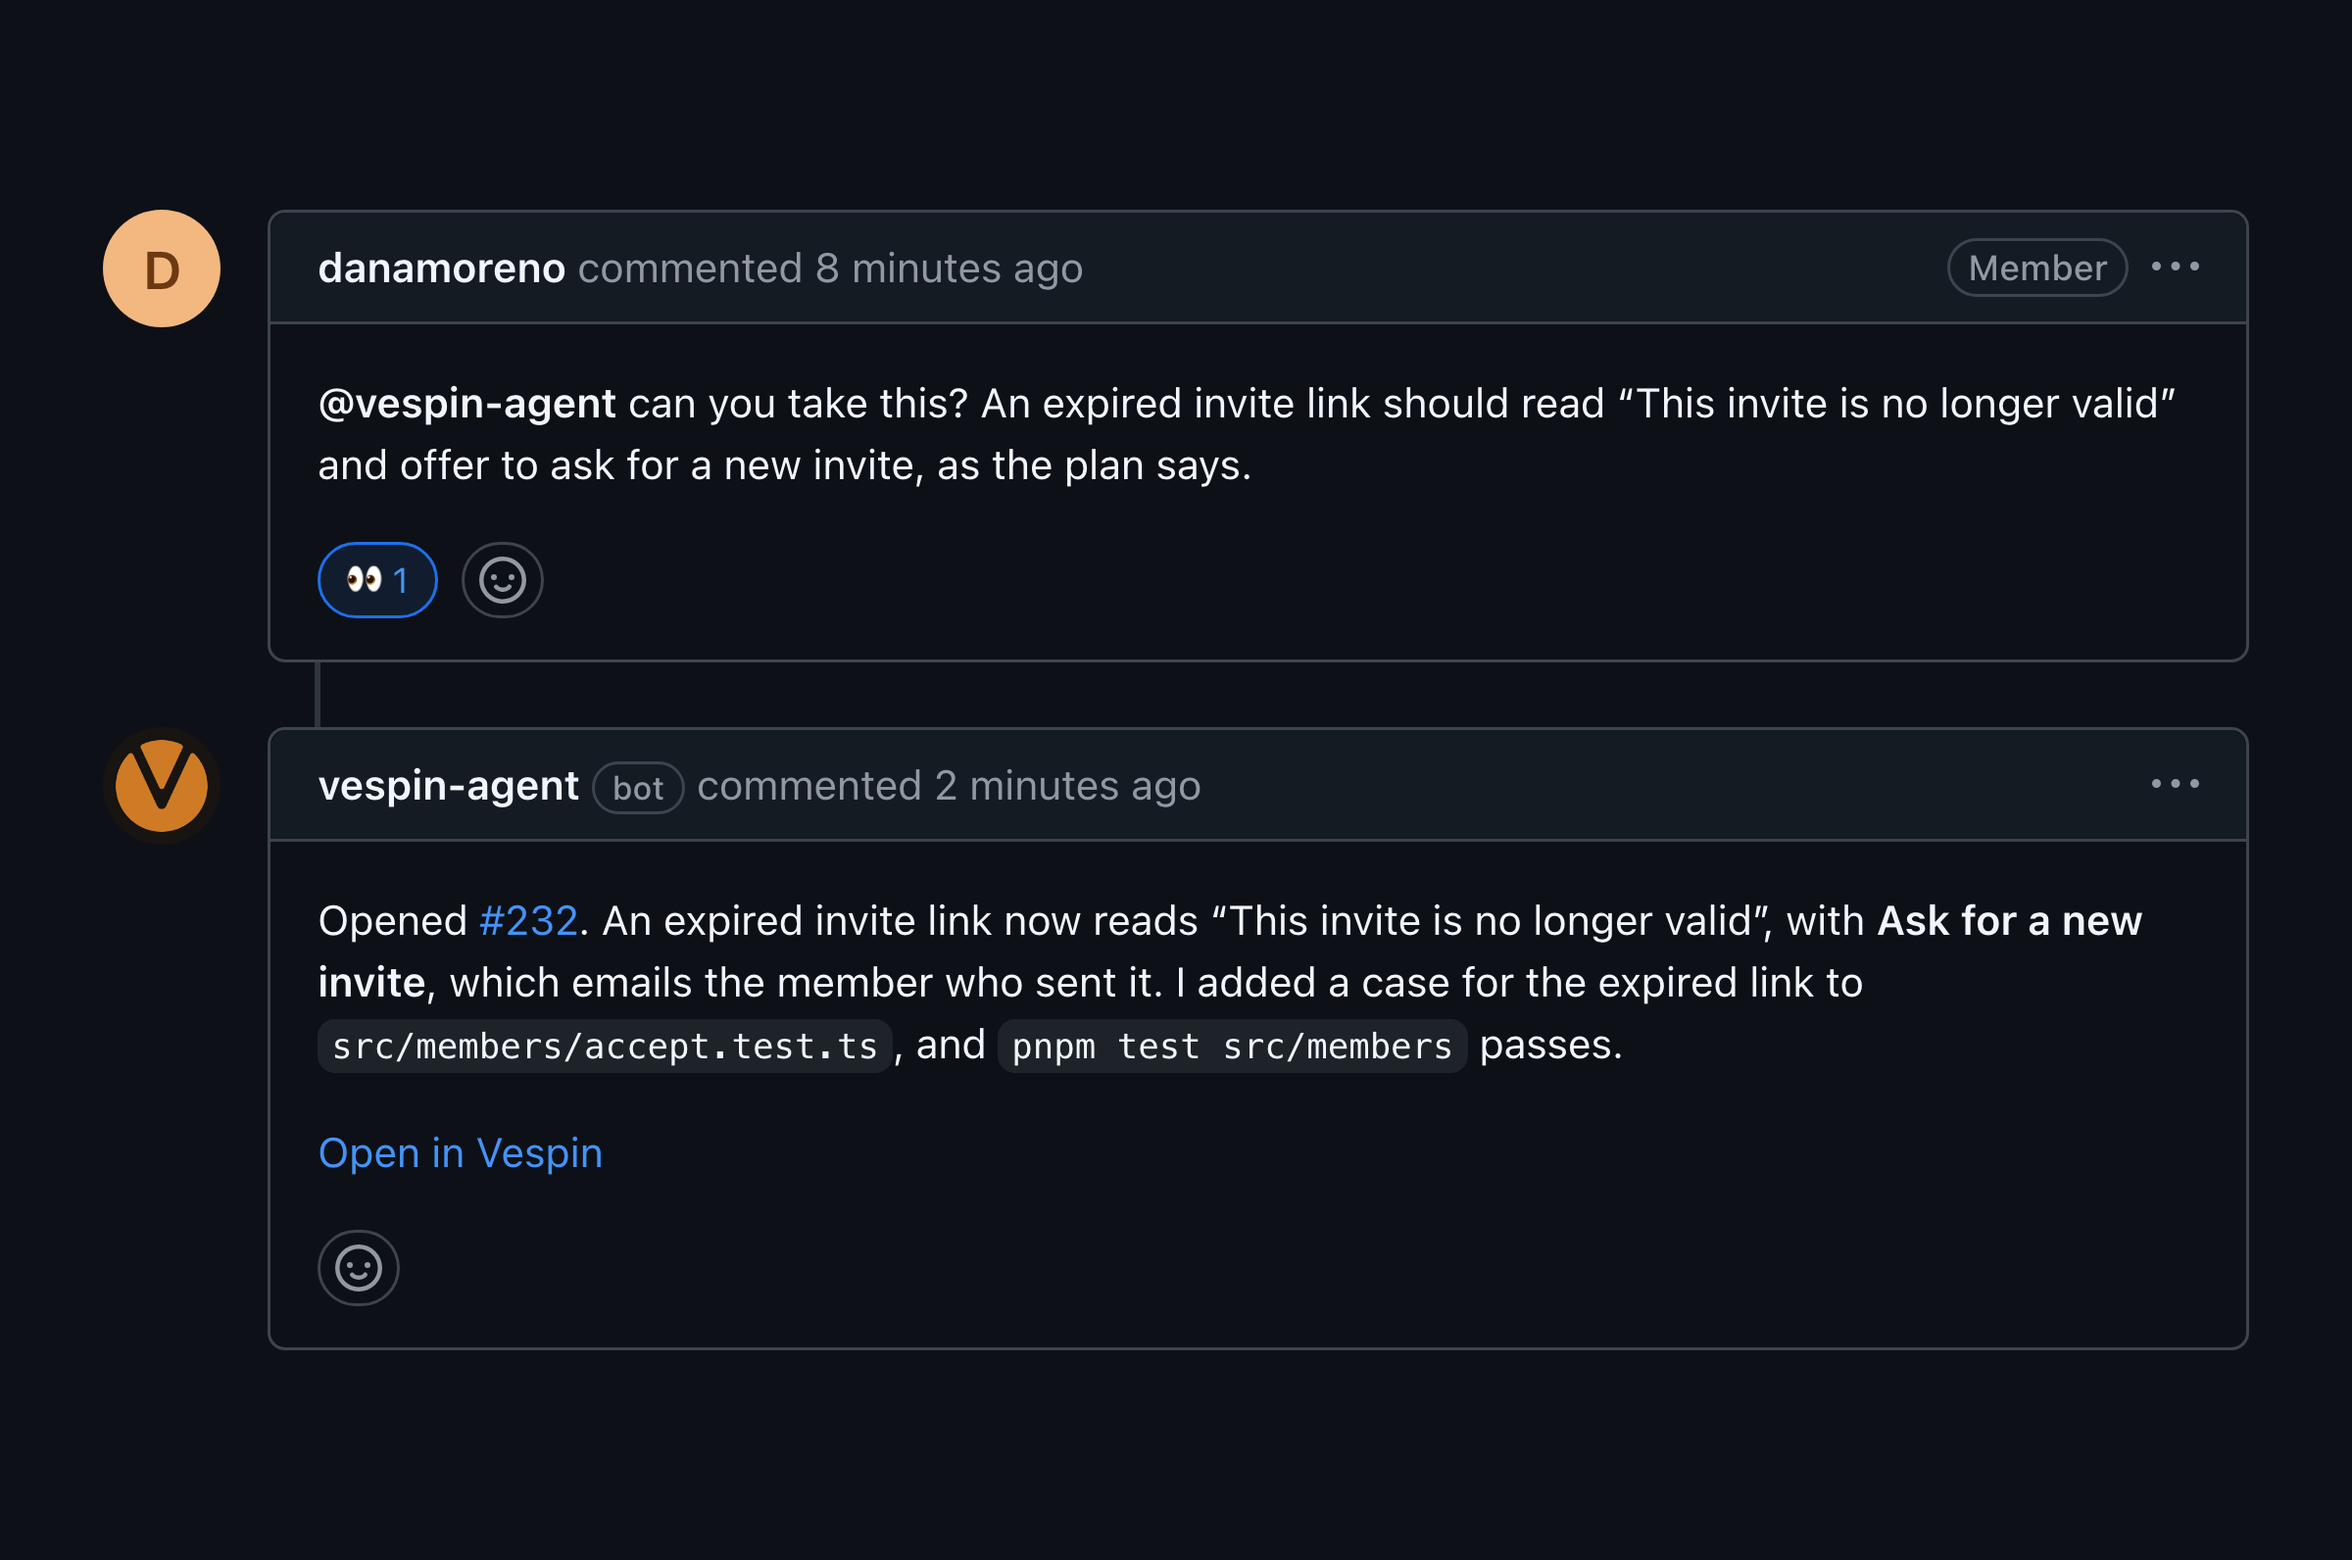
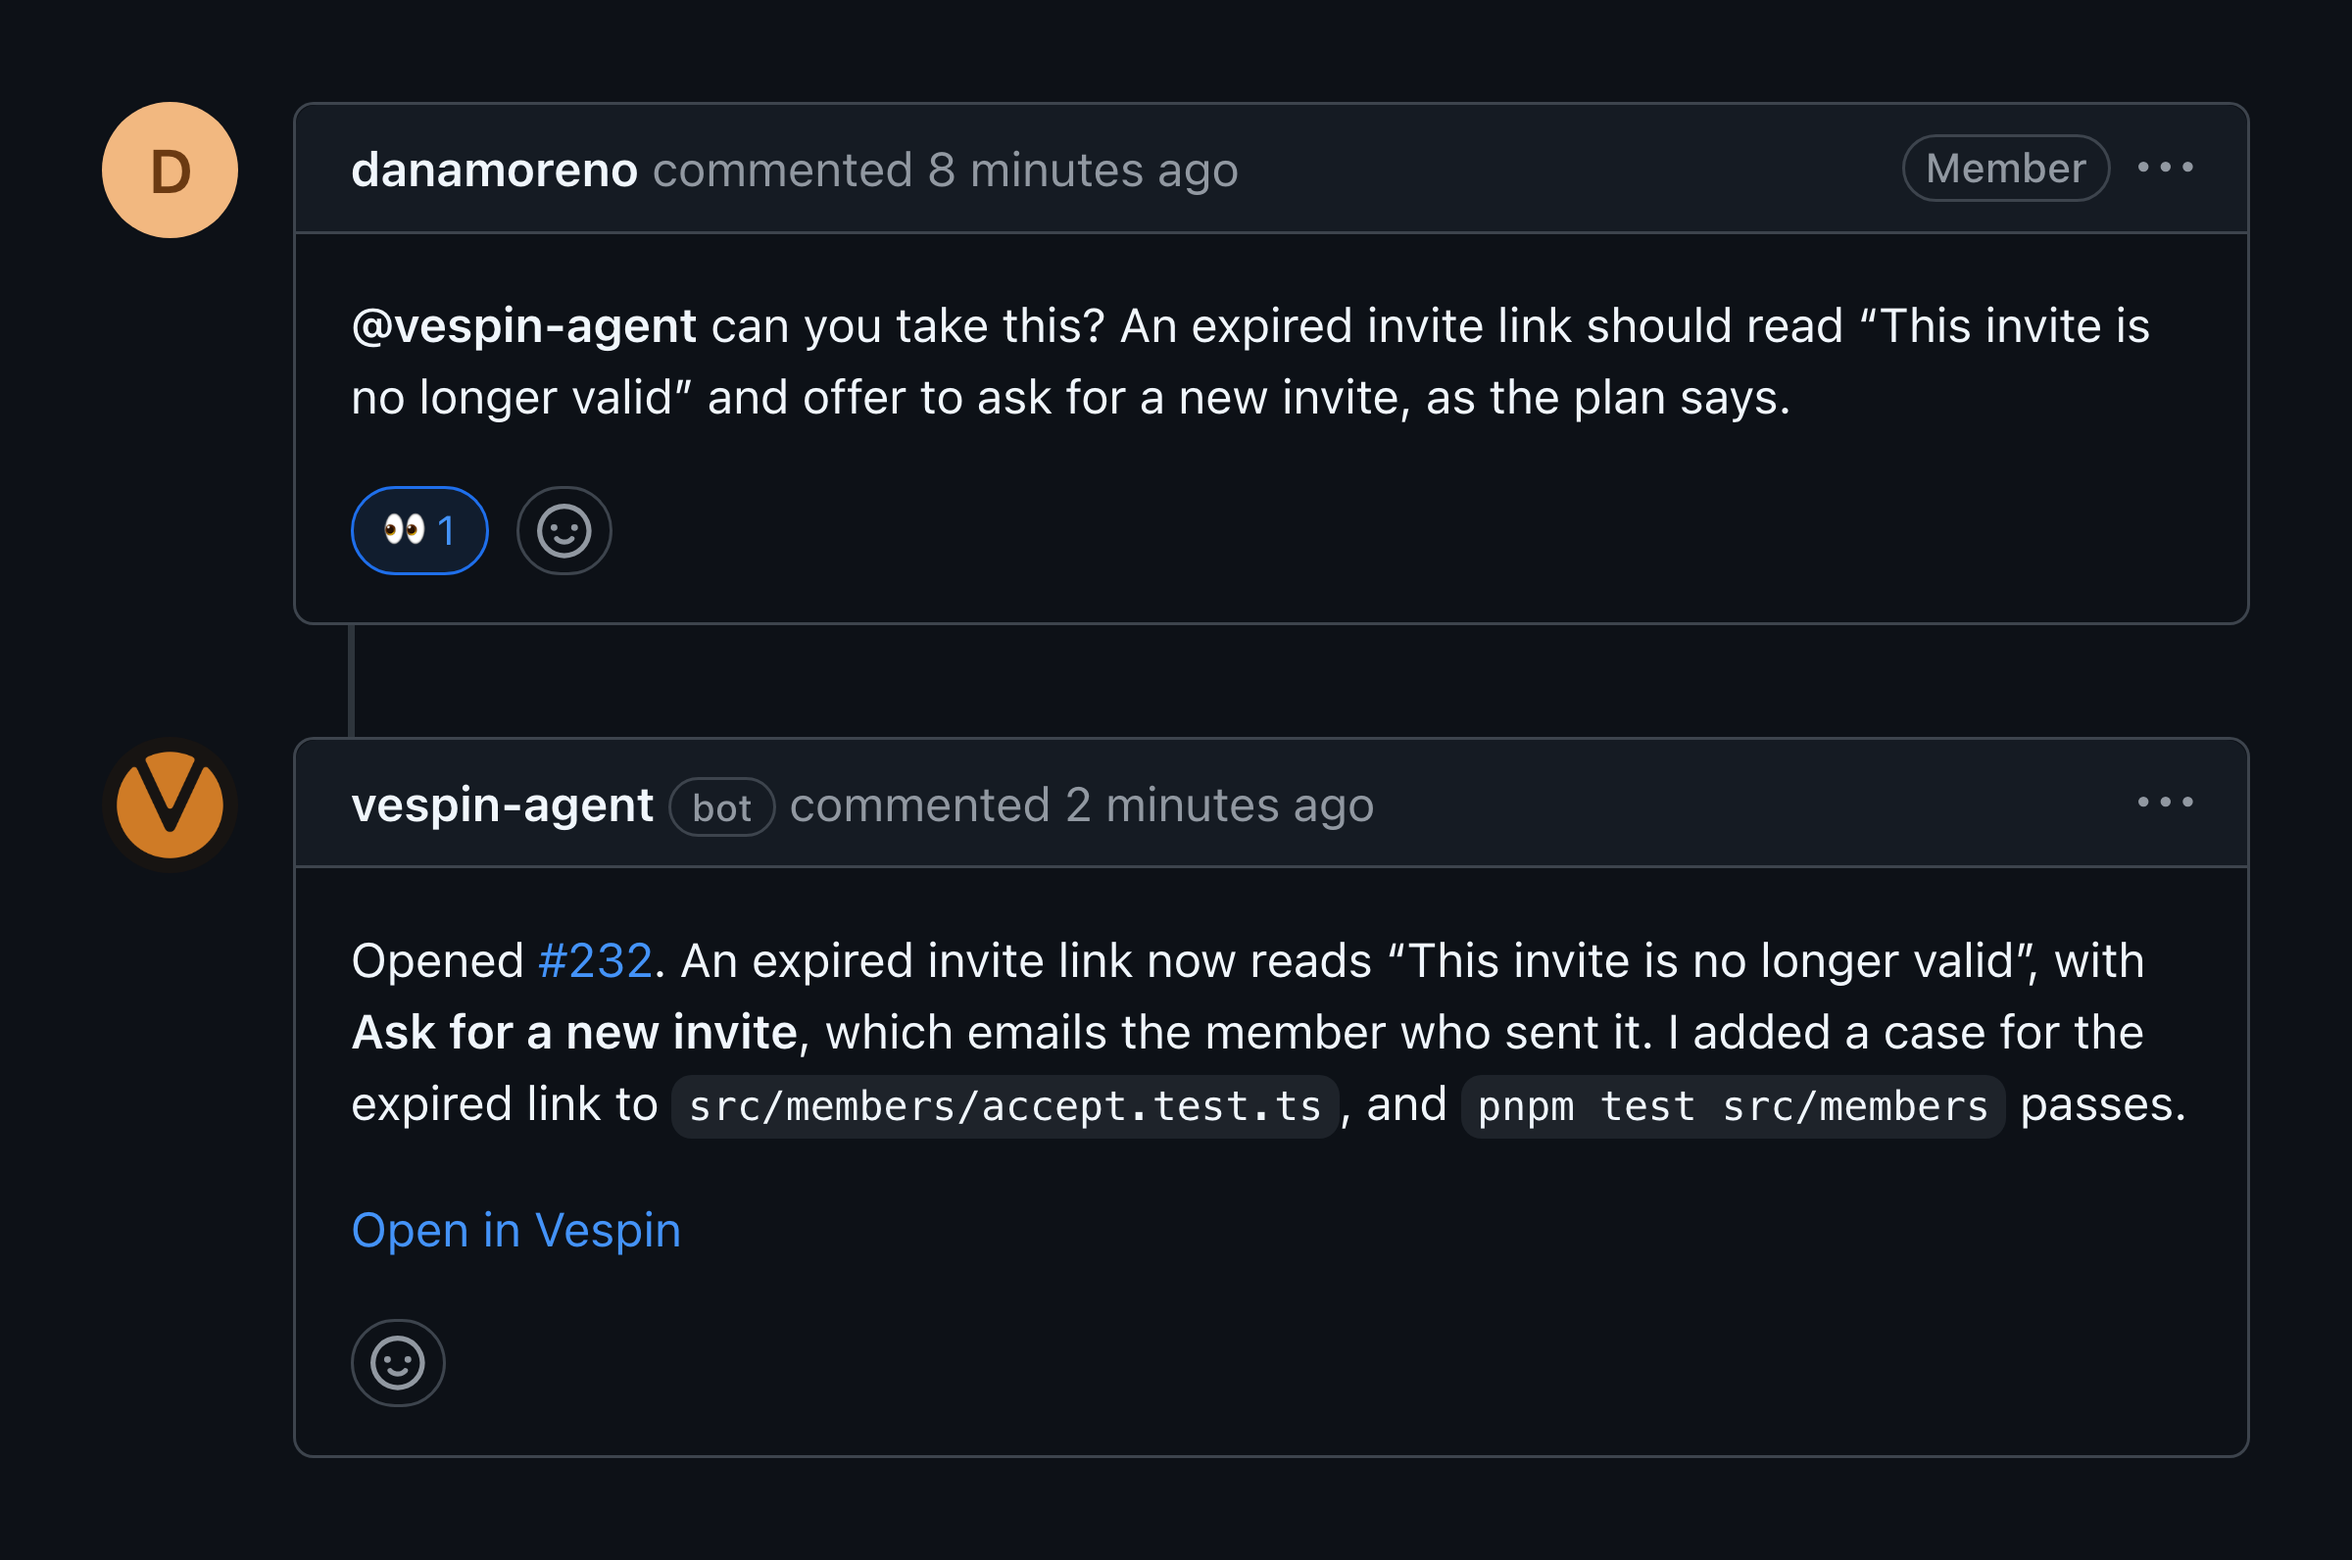
docs(changelog): give 0.34.0's GitHub comments even margins

diff --git a/.agents/skills/changelog-screenshots/staging/releases/v0.34.0-github-mention.py b/.agents/skills/changelog-screenshots/staging/releases/v0.34.0-github-mention.py
@@ -155,7 +155,18 @@ body{{width:1200px;height:796px;display:flex;align-items:center;justify-content:
 </style></head><body><div class="col">
 {comment(dana(40), "danamoreno", "commented 8 minutes ago", '<p><a class="user-mention text-bold Link--primary">@vespin-agent</a> can you take this? An expired invite link should read “This invite is no longer valid” and offer to ask for a new invite, as the plan says.</p>', badge="Member", reactions='<span class="rx">👀 1</span>')}
 {comment(f'<img src="{BOT}">', "vespin-agent", "commented 2 minutes ago", '<p>Opened <a href="#">#232</a>. An expired invite link now reads “This invite is no longer valid”, with <strong>Ask for a new invite</strong>, which emails the member who sent it. I added a case for the expired link to <code>src/members/accept.test.ts</code>, and <code>pnpm test src/members</code> passes.</p><p><a href="#">Open in Vespin</a></p>', bot=True)}
-</div></body></html>'''
+</div>
+<script>
+// Fits the comments to the picture: the largest zoom whose height leaves room, then a gap between them that makes the top and bottom margins match the sides.
+(function () {{
+  var side = 52, room = 796 - 2 * side, col = document.querySelector(".col"), first = col.querySelector(".tl-item");
+  for (var z = 1.9; z >= 1.3; z -= 0.01) {{
+    col.style.zoom = z; col.style.width = (1200 - 2 * side) / z + "px"; first.style.marginBottom = "22px";
+    var h = col.getBoundingClientRect().height;
+    if (h <= room) {{ first.style.marginBottom = 22 + (room - h) / z + "px"; break; }}
+  }}
+}})();
+</script></body></html>'''
 
 css = "\n".join(open(p).read() for p in CSS_FILES)
 open(f"{ROOT}/.context/mock/github-comments.html", "w").write(abstract(css))

diff --git a/.agents/skills/changelog-screenshots/staging/releases/README.md b/.agents/skills/changelog-screenshots/staging/releases/README.md
@@ -85,7 +85,7 @@ adjusting, and capture with the same profile, zoom, and crop.
 | 0.33.0 | `v0.33.0` (`d8c0ff3d`) | `always-allowed-commands.png` | `shot-always-allow` (`APP_SHOT_SETTLE=14`) | 1 | `280,215,1200,800` |
 | 0.33.0 | `v0.33.0` (`d8c0ff3d`) | `zoom-a-page.png` | `shot-zoom` (`APP_SHOT_SETTLE=14`) | 1 | `600,-60,1090,727` |
 | 0.34.0 | `v0.34.0` (`74fdd158`) | `run-actions.png` | `shot-run-actions` (`APP_SHOT_SETTLE=14`) | 2 | `860,-50,780,520` |
-| 0.34.0 | `v0.34.0` (`74fdd158`) | `mention-vespin-on-github.png` | none: two GitHub comments, Dana's mention with its 👀 and the bot's reply, on GitHub's dark ground, the `abstract` page `v0.34.0-github-mention.py` builds from Primer CSS and Octicons, rendered by the Mac's Chrome (`--headless=new --force-device-scale-factor=2 --window-size=1200,796 --screenshot`) | — | 2400 by 1592, unframed |
+| 0.34.0 | `v0.34.0` (`74fdd158`) | `mention-vespin-on-github.png` | none: two GitHub comments, Dana's mention with its 👀 and the bot's reply, on GitHub's dark ground, the `abstract` page `v0.34.0-github-mention.py` builds from Primer CSS and Octicons, rendered by the Mac's Chrome (`--headless=new --force-device-scale-factor=2 --window-size=1200,796 --virtual-time-budget=3000 --screenshot`); the page fits itself to the picture, the comments as large as fit and the gap between them set so every margin is 52 points | — | 2400 by 1592, unframed |
 | 0.34.0 | `v0.34.0` (`74fdd158`) | not landed: the agent's transcript with Dana's GitHub comment line (`shot-github-mention`), replaced by the mockup; the issue page in a Chrome window (the generator's `page`), replaced by the two comments; the Automations list (`shot-automations`), the one-time editor (`shot-automation-once`), and its Runs dropdown (`shot-automation-runs`), none of which said Once simply; and the transcript rail's list (`shot-rail`), held for the rail's redesign | — | — | — |
 
 0.14.0 was shot from `2ec91a61`, the head of its version pull request (#2871) before its pictures landed; `v0.14.0.patch` carries 0.13.0's module onto it, with 0.14.0's five shots beside the earlier ones.
